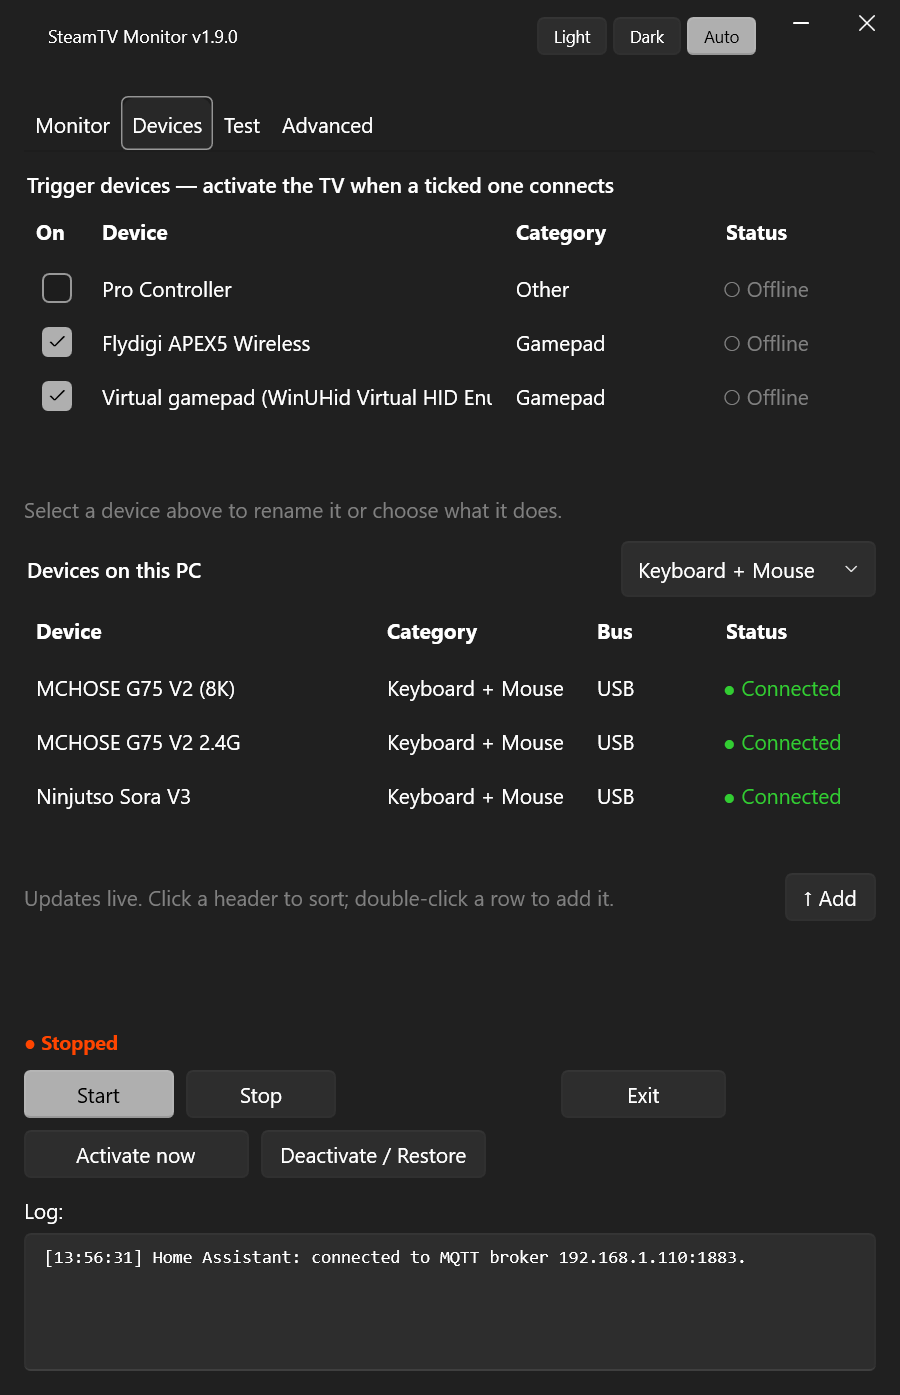
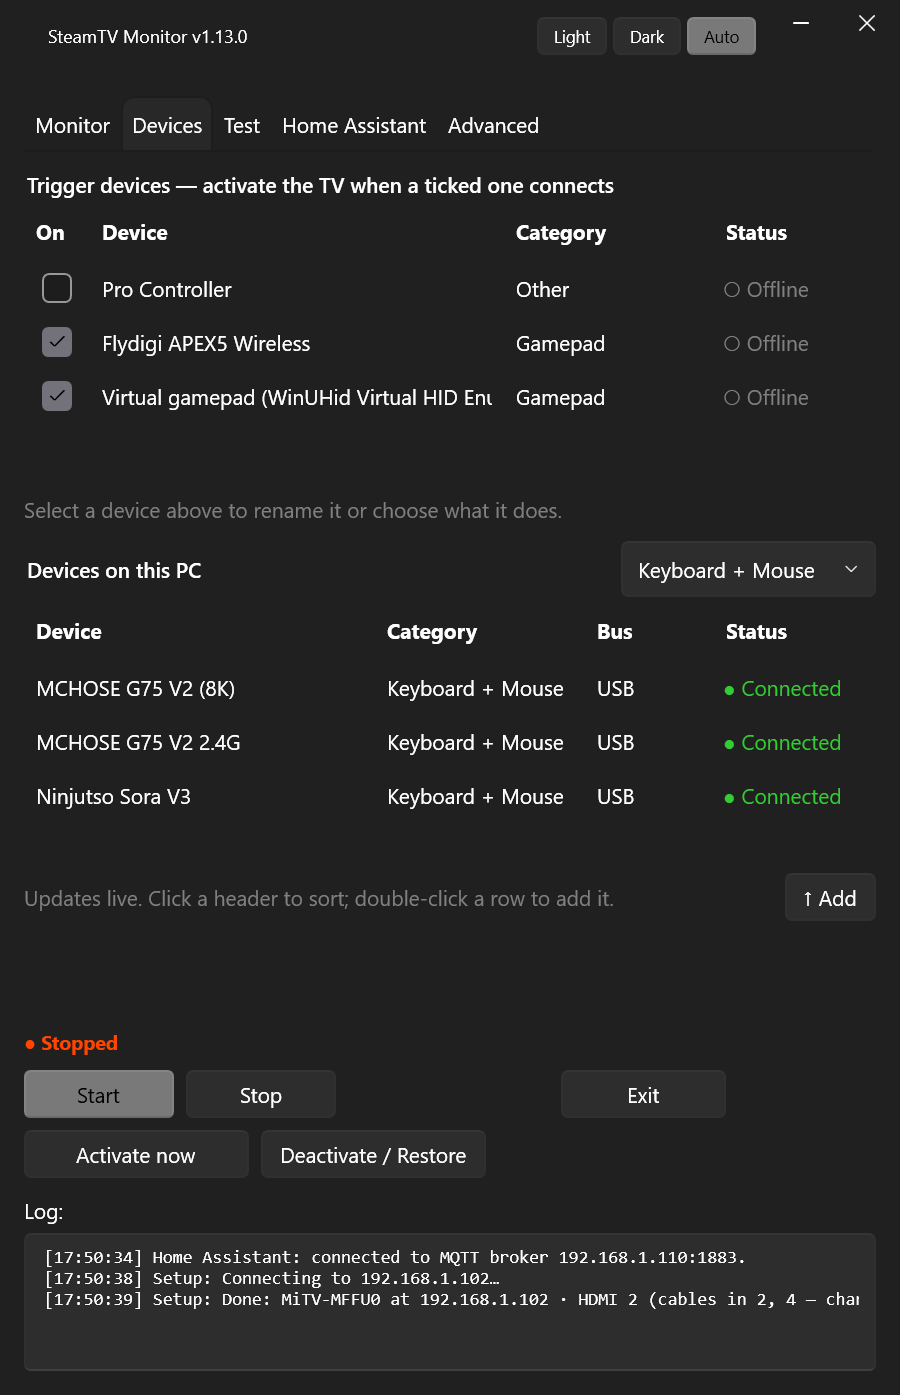
README: 1.13.0 screenshots, troubleshooting, project layout
Retakes the Monitor, Devices and Home Assistant screenshots on 1.13.0
(the first two still showed 1.9.0). Adds troubleshooting for automatic
setup, sound and the log file, and lists the new source files.

diff --git a/README.md b/README.md
@@ -223,7 +223,16 @@ Discovery and states are published again whenever Home Assistant restarts (`home
 - If the TV did switch but SteamTV still rolled back, set an HDMI activity pattern override — see [Manual values](#manual-values).
 
 **Wrong display turned on**
-- Use **Displays…** to find the TV's number; it matches `\\.\DISPLAYn` in Windows display settings.
+- Click **Detect TV display**, or use **Displays…** to find the TV's number; it matches `\\.\DISPLAYn` in Windows display settings.
+
+**Set up automatically finds no TV**
+- The PC and the TV must be on the same network, and USB / network debugging must be on in the TV's Developer options. If the TV has no network debugging at all, enter its IP by hand.
+- Several Android devices found: pick the TV in the list next to **Find TV**, then click **Set up automatically** again.
+
+**Sound stays on the PC**
+- The TV's sound device only exists while its display is on. Check the **List Sound Devices** button on the Test tab during a session — if the TV's device has an unusual name, enter part of it as **TV sound device** on the Advanced tab.
+
+**Something else** — the tray menu's **Open log file** shows everything SteamTV did, also from before the last restart.
 
 **Device not in the list**
 - Bluetooth devices have to be paired in Windows first.
@@ -246,20 +255,25 @@ Produces a single self-contained `bin\Release\net48\SteamTV.exe` — WPF-UI is m
 
 ```
 SteamTV/
-├─ App.xaml(.cs)            entry point: single instance, -autostart flag, theme
-├─ MainWindow.xaml(.cs)     UI: Monitor / Devices / Test / Home Assistant / Advanced tabs, tray icon
+├─ App.xaml(.cs)            entry point: single instance (a second start shows the window), -autostart flag, theme
+├─ MainWindow.xaml(.cs)     UI: Monitor / Test / Advanced tabs, status, log
+├─ MainWindow.*.cs          the rest of the window: AutoSetup, Devices, HomeAssistant, Tray, Setup (hotkeys, launcher)
 ├─ Appsettings.cs           registry-backed settings, WatchedDevice model
 ├─ app.manifest             per-monitor DPI awareness
 ├─ Interop/Native.cs        P/Invoke: CCD display API, device-change notifications
 ├─ Services/
 │  ├─ Monitorservice.cs     the main loop: trigger devices + Big Picture → activate / restore
 │  ├─ DeviceScanner.cs      external USB/Bluetooth devices via cfgmgr32
-│  ├─ Displaymanager.cs     enable / disable / restore monitors (SetDisplayConfig)
-│  ├─ Adb.cs, AdbBundle.cs  adb wrapper; unpacking the bundled adb.exe
-│  ├─ Steamhelper.cs        Big Picture: detect, launch, close; minimize Steam
+│  ├─ Displaymanager.cs     enable / disable / restore monitors (SetDisplayConfig), TV detection, HDR
+│  ├─ Adb.cs, AdbBundle.cs  adb wrapper (wake, HDMI switch, return/sleep); the bundled adb.exe
+│  ├─ TvDiscovery.cs        finding the TV on the network, its MAC, Wake-on-LAN
+│  ├─ AudioSwitcher.cs      default playback device (Core Audio / IPolicyConfig)
+│  ├─ Steamhelper.cs        Big Picture: detect, launch, close; minimize Steam; find steam.exe
 │  ├─ HomeAssistantMqtt.cs  MQTT discovery, switch states, commands from Home Assistant
 │  ├─ PowerControl.cs       sleep / shut down / restart, MAC for Wake on LAN
-│  └─ UpdateChecker.cs      new-release check on startup
+│  ├─ GlobalHotkeys.cs      Activate / Deactivate shortcuts
+│  ├─ UpdateChecker.cs, Updater.cs  new-release check; download, swap the exe, restart
+│  └─ AppLog.cs             log file in %LOCALAPPDATA%\SteamTV
 └─ Vendor/adb.exe           Android Platform Tools (Apache 2.0, see adb-NOTICE.txt)
 ```
 
